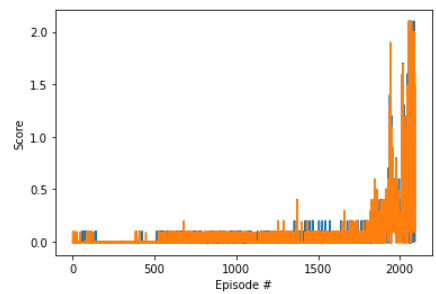
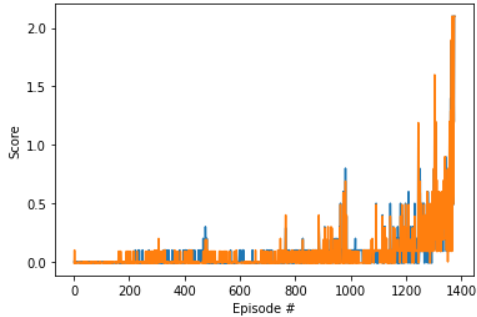
add report, traning result and updated notebook

Changed region(s): [[0.0, 0.0, 1.0, 1.0]]

diff --git a/Report.md b/Report.md
@@ -1,0 +1,140 @@
+# Collaboration and Competition
+
+My solution for the [Deep Reinforcement Learning Nanodegree](https://www.udacity.com/course/deep-reinforcement-learning-nanodegree--nd893) Collaboration and Competition project, following the [Rubric](https://review.udacity.com/#!/rubrics/1891/view) for the [Tennis](https://github.com/Unity-Technologies/ml-agents/blob/release_4_branch/docs/Learning-Environment-Examples.md#tennis) environment.
+
+[//]: # (Image References)
+
+[image1]: ./extra/train01.png
+[image2]: ./extra/cc01.gif
+
+---
+## Description
+
+Two agents control rackets to bounce a ball over a net to play Tennis.
+
+If an agent hits the ball over the net, it receives a reward of `+0.1`.  If an agent lets a ball hit the ground or hits the ball out of bounds, it receives a reward of `-0.01`; the goal of each agent is to keep the ball in play.
+
+The observation space consists of 8 variables corresponding to the position and velocity of the ball and racket. Each agent receives its own, local observation.  Two continuous actions are available, corresponding to movement toward (or away from) the net, and jumping. 
+
+The task is episodic, and in order to solve the environment, the agents must get an average score of `+0.5` (over 100 consecutive episodes, after taking the maximum over both agents). Specifically,
+
+- After each episode, we add up the rewards that each agent received (without discounting), to get a score for each agent. This yields 2 (potentially different) scores. We then take the maximum of these 2 scores.
+- This yields a single **score** for each episode.
+
+The environment is considered solved, when the average (over 100 episodes) of those **scores** is at least `+0.5`.
+
+## Architecture
+
+The initial configuration reuses the [ContinuousControl](https://github.com/ladrians/drlND_ContinuousControl) in particular the [DDPG algorithm](https://arxiv.org/abs/1509.02971) adapted for Multi-agent usage, based on the MADDPG Lab task.
+
+Both agent states and actions are combined for training. I used a vanilla deep neural network consisting of 3 fully connected layers for the `actor` and `critic`. The `actor` approximates the best action in the given state while the `critic` approximates the associated `Q-value `. Used 200x150 hidden units. In both model changed the usage of `relu` to `leaky_relu` since it performed better (from solving the scenario in to `2093` to `1375` episodes).
+
+### Hyperparameters
+
+The initial configuration was set equal to the previous project, which generated unconclusive results, it was detected unstability during training. In several iterations the following parameters where modified. The final values are:
+
+```python
+BUFFER_SIZE = int(1e6)
+BATCH_SIZE = 256
+GAMMA = 0.99
+TAU = 1e-3
+LR_ACTOR = 1e-4
+LR_CRITIC = 1e-3 
+WEIGHT_DECAY = 1e-6
+SIGMA = 0.15
+NOISE_DECAY = 0.9999
+
+fc1_units = 200
+fc2_units = 150
+```
+
+The following parameter changes were tested based on a try and error basis:
+
+ * `BATCH_SIZE`: `32`, `64`, `128`, `256` using a default of `256`; small batch sizes did not get good results, kept enlarging it got got better results.
+ * `LR_CRITIC`: `1e-4` to `1e-3`; learning was extremely erratic, with minor changes on the learning rate of the critic got better results.
+ * `NOISE_DECAY`: from `0.` to `0.9999`; not sure if this parameter changes was representative or not.
+ * `fc1_units`x`fc2_units`: from `400x300`, `256x128` to `200x150`.
+
+## Training
+
+All training was done on the [Tennis.ipynb](Tennis.ipynb) notebook, taking as reference the [DDPG algorithm](https://arxiv.org/abs/1509.02971) modified from the [ContinuousControl](https://github.com/ladrians/drlND_ContinuousControl) project for multi-agent usage, where the training is done on both agents at the same time.
+
+A wrapper `MDDPGAgent` class was created to encapsulate the agents and to act on both on every iteration.
+
+The result (local execution) is as follows:
+
+```sh
+# relu
+Training started using 4000 episodes and 800 steps
+Episode 100	Average Score: 0.01	Score: 0.050
+Episode 200	Average Score: -0.00	Score: -0.00
+Episode 300	Average Score: -0.00	Score: -0.00
+Episode 400	Average Score: -0.00	Score: -0.00
+Episode 500	Average Score: -0.00	Score: -0.00
+Episode 600	Average Score: 0.02	Score: 0.0500
+Episode 700	Average Score: 0.02	Score: 0.050
+Episode 800	Average Score: 0.02	Score: -0.00
+Episode 900	Average Score: 0.02	Score: 0.050
+Episode 1000	Average Score: 0.02	Score: -0.00
+Episode 1100	Average Score: 0.02	Score: 0.050
+Episode 1200	Average Score: 0.01	Score: -0.00
+Episode 1300	Average Score: 0.03	Score: 0.050
+Episode 1400	Average Score: 0.03	Score: 0.150
+Episode 1500	Average Score: 0.03	Score: 0.100
+Episode 1600	Average Score: 0.03	Score: 0.050
+Episode 1700	Average Score: 0.05	Score: 0.150
+Episode 1800	Average Score: 0.06	Score: 0.150
+Episode 1900	Average Score: 0.13	Score: 0.200
+Episode 2000	Average Score: 0.30	Score: 0.050
+Episode 2093	Average Score: 0.51	Score: 1.550
+Environment solved in 2093 episodes!	Average Score: 0.51
+# leaky_relu
+Training started using 4000 episodes and 800 steps
+Episode 100	Average Score: -0.00	Score: -0.00
+Episode 200	Average Score: -0.00	Score: -0.00
+Episode 300	Average Score: 0.01	Score: -0.000
+Episode 400	Average Score: 0.01	Score: -0.00
+Episode 500	Average Score: 0.02	Score: 0.050
+Episode 600	Average Score: 0.01	Score: 0.050
+Episode 700	Average Score: 0.00	Score: -0.00
+Episode 800	Average Score: 0.02	Score: 0.050
+Episode 900	Average Score: 0.04	Score: 0.050
+Episode 1000	Average Score: 0.09	Score: 0.05
+Episode 1100	Average Score: 0.06	Score: 0.100
+Episode 1200	Average Score: 0.11	Score: 0.20
+Episode 1300	Average Score: 0.19	Score: 0.40
+Episode 1375	Average Score: 0.50	Score: 2.10
+Environment solved in 1375 episodes!	Average Score: 0.50
+```
+
+During the different training trials the `maximum number of steps per episode` was enlarged up to 800 steps.
+
+A plot of the average score per episode is illustrated here:
+
+![Training result][image1]
+
+### Evaluation
+
+The evaluation of the agent for a couple of episodes.
+
+ * [3 episodes evaluation](extra/cc01.mp4):
+
+![Training evaluation][image2]
+
+## Discussion and Further Work
+
+A basic `Collaboration` and `Competition` agent was implemented to solve the task using an initial implementation from the `DDPG` algorithm. More experimentation would be useful on the hyperparameters to get better results and analyze the ammount of episodes needed. 
+
+Other options are to radically change the architecture and algorithms to other opciones such as `PPO`, `Rainbow`, `TD3`, `MMADPG`.
+
+Modify the selected algorithm and use `prioritied experience replay` to accelerate and stabilize training.
+
+## Resources
+
+* [What Matters In On-Policy Reinforcement Learning? A Large-Scale Empirical Study](https://arxiv.org/abs/2006.05990)
+* [Rainbow: Combining Improvements in Deep Reinforcement Learning](https://arxiv.org/pdf/1710.02298.pdf)
+* [Multi-Agent Actor-Critic for Mixed Cooperative-Competitive Environments](https://arxiv.org/abs/1706.02275)
+* [Proximal Policy Optimization Algorithms](https://arxiv.org/abs/1707.06347)
+* [Distributed Distributional Deep Deterministic Policy Gradient](https://openreview.net/pdf?id=SyZipzbCb)
+* [Deep Deterministic Policy Gradient](https://spinningup.openai.com/en/latest/algorithms/ddpg.html)
+* [TD3: Twin Delayed DDPG](https://arxiv.org/abs/1802.09477)
